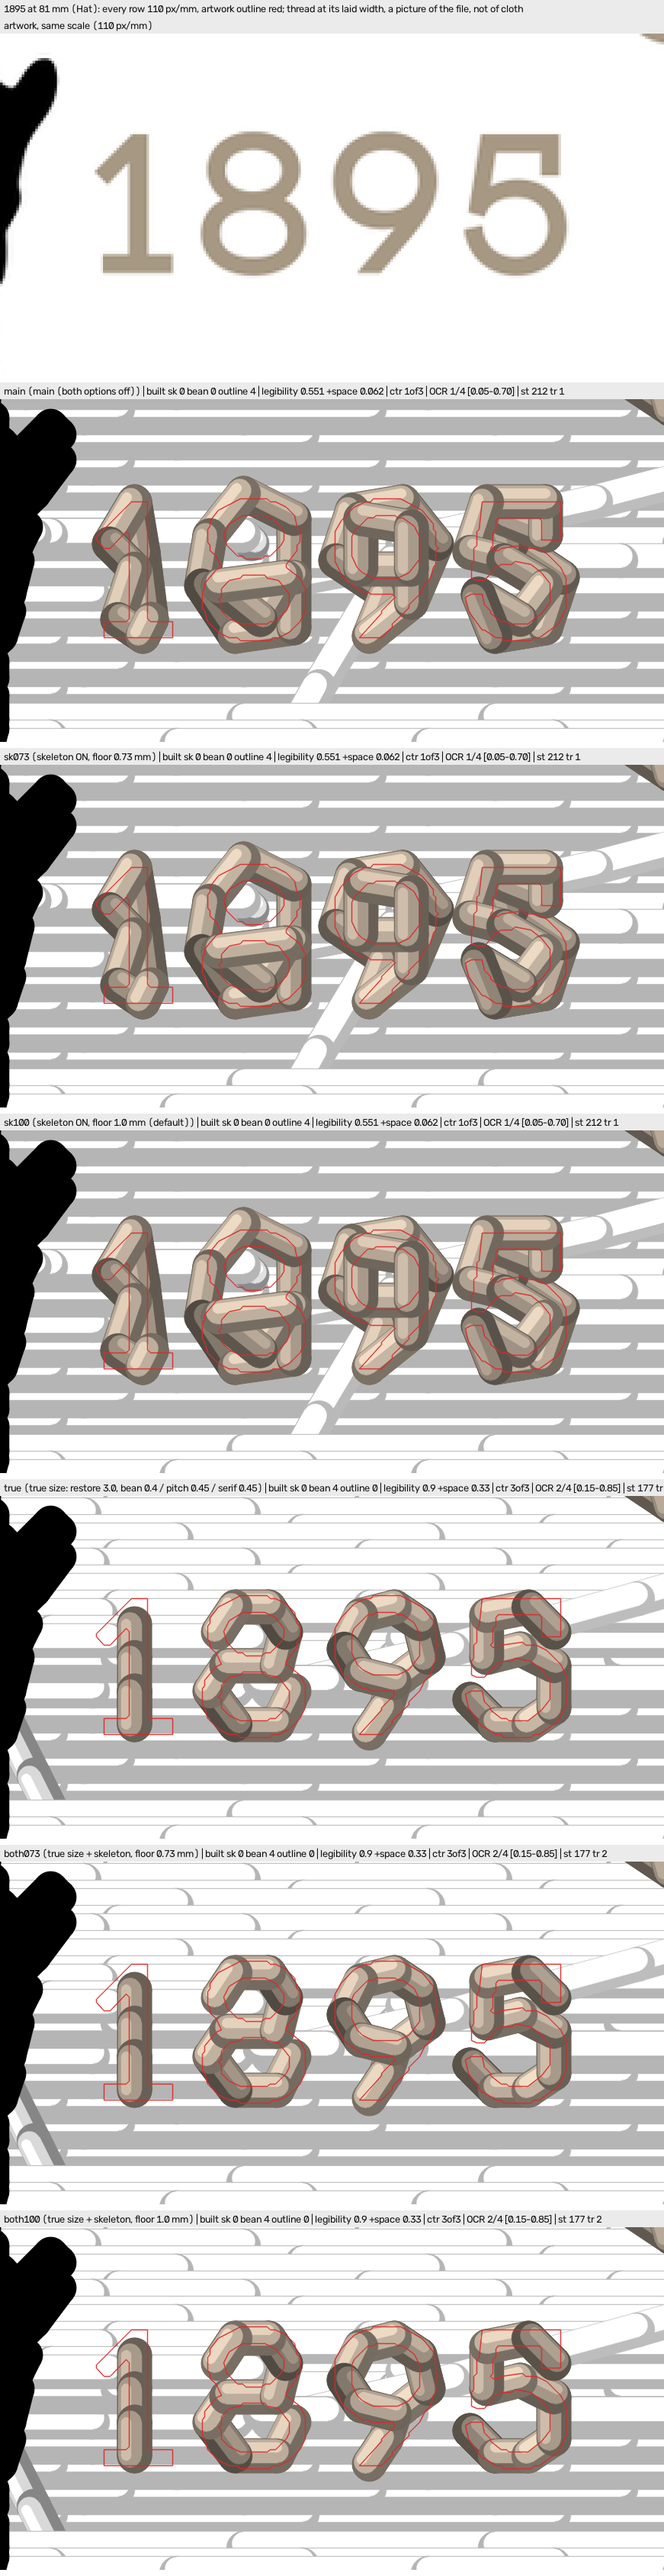
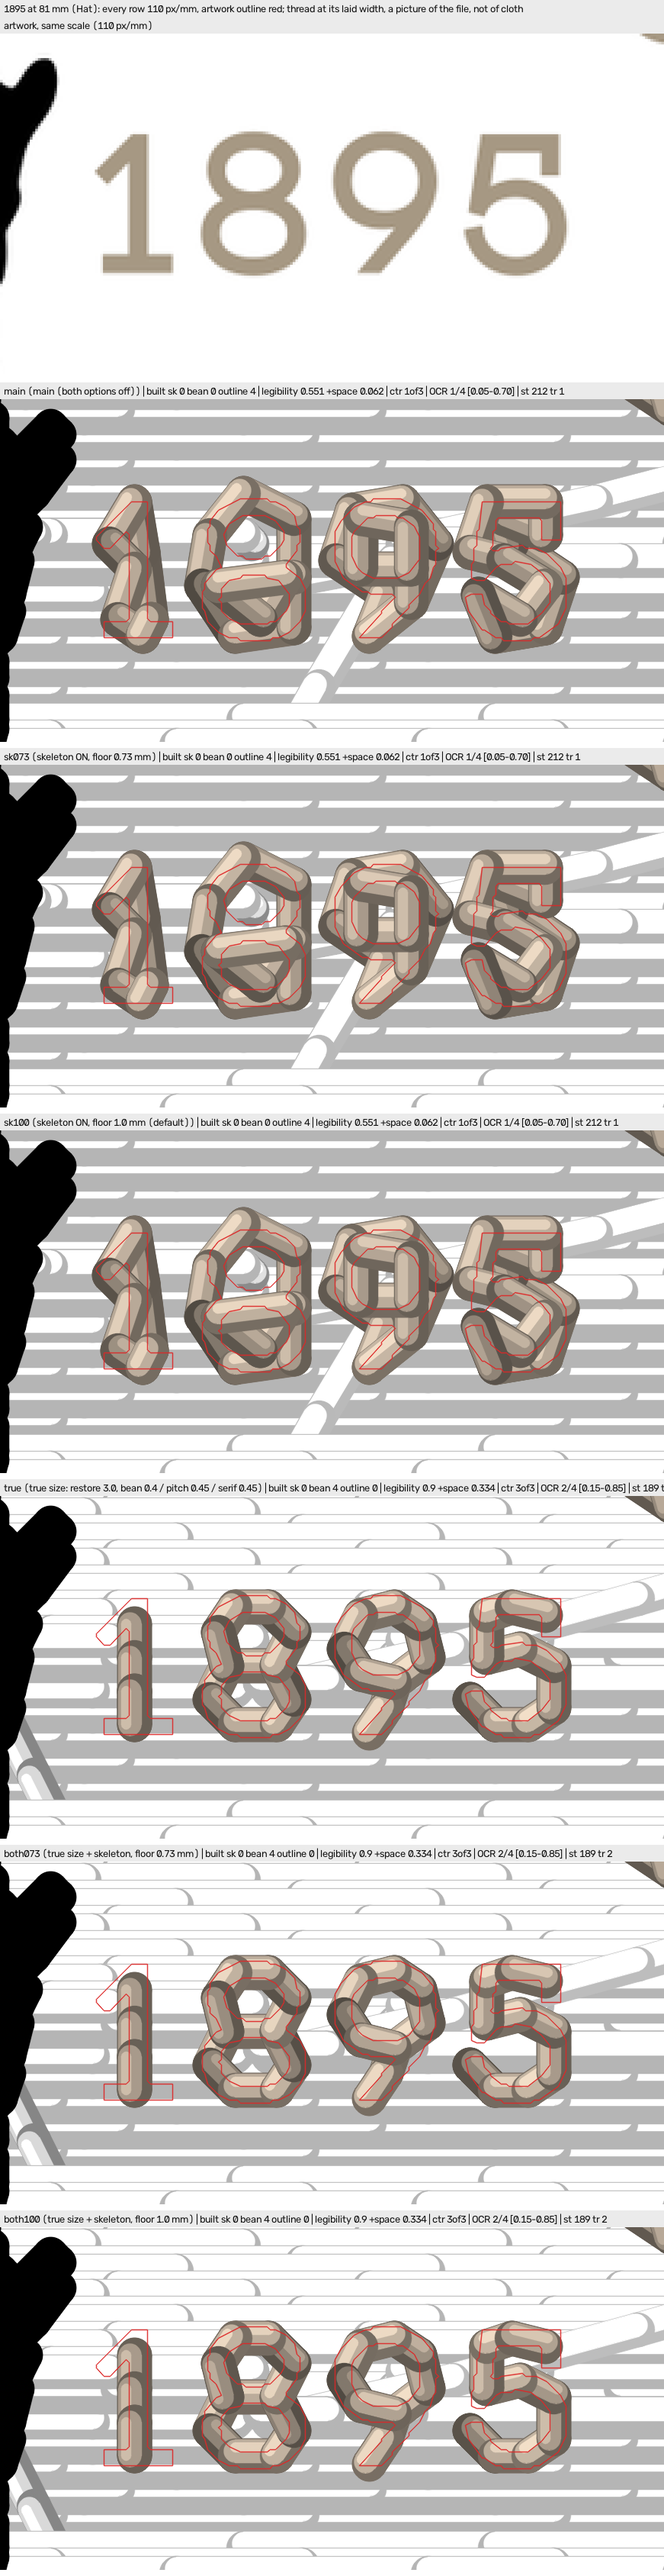
Small lettering head to head: true-size cells re-run on main cc7cab97 (serif guard), sheets regenerated

diff --git a/docs/renders/claude-small-lettering-head-to-head/table.md b/docs/renders/claude-small-lettering-head-to-head/table.md
@@ -5,9 +5,9 @@
 | main | 15,625 | 47 | 0, 0, 3 / 0, 0, 4 / 0, 0, 3 / 0, 0, 13 |
 | sk073 | 15,202 | 47 | 0, 0, 3 / 0, 0, 4 / 0, 0, 3 / 10, 0, 3 |
 | sk100 | 15,430 | 47 | 0, 0, 3 / 0, 0, 4 / 0, 0, 3 / 5, 0, 8 |
-| true | 15,278 | 41 | 0, 3, 0 / 0, 4, 0 / 0, 3, 0 / 0, 11, 2 |
-| both073 | 15,278 | 41 | 0, 3, 0 / 0, 4, 0 / 0, 3, 0 / 0, 11, 2 |
-| both100 | 15,278 | 41 | 0, 3, 0 / 0, 4, 0 / 0, 3, 0 / 0, 11, 2 |
+| true | 15,281 | 41 | 0, 3, 0 / 0, 4, 0 / 0, 3, 0 / 0, 11, 2 |
+| both073 | 15,281 | 41 | 0, 3, 0 / 0, 4, 0 / 0, 3, 0 / 0, 11, 2 |
+| both100 | 15,281 | 41 | 0, 3, 0 / 0, 4, 0 / 0, 3, 0 / 0, 11, 2 |
 
 **EST** (legibility / +space / counters open of source / OCR glyphs recovered, Wilson 95% / stitches and trims in the word's box)
 
@@ -16,9 +16,9 @@
 | main | 0.967 | 0.000 | 0 of 0 | 1/2 [0.10-0.91] | 166 | 1 |
 | sk073 | 0.967 | 0.000 | 0 of 0 | 1/2 [0.10-0.91] | 166 | 1 |
 | sk100 | 0.967 | 0.000 | 0 of 0 | 1/2 [0.10-0.91] | 166 | 1 |
-| true | 0.615 | 0.214 | 0 of 0 | 1/2 [0.10-0.91] | 133 | 0 |
-| both073 | 0.615 | 0.214 | 0 of 0 | 1/2 [0.10-0.91] | 133 | 0 |
-| both100 | 0.615 | 0.214 | 0 of 0 | 1/2 [0.10-0.91] | 133 | 0 |
+| true | 0.945 | 0.343 | 0 of 0 | 2/2 [0.34-1.00] | 124 | 0 |
+| both073 | 0.945 | 0.343 | 0 of 0 | 2/2 [0.34-1.00] | 124 | 0 |
+| both100 | 0.945 | 0.343 | 0 of 0 | 2/2 [0.34-1.00] | 124 | 0 |
 
 **1895** (legibility / +space / counters open of source / OCR glyphs recovered, Wilson 95% / stitches and trims in the word's box)
 
@@ -27,9 +27,9 @@
 | main | 0.551 | 0.062 | 1 of 3 | 1/4 [0.05-0.70] | 212 | 1 |
 | sk073 | 0.551 | 0.062 | 1 of 3 | 1/4 [0.05-0.70] | 212 | 1 |
 | sk100 | 0.551 | 0.062 | 1 of 3 | 1/4 [0.05-0.70] | 212 | 1 |
-| true | 0.900 | 0.330 | 3 of 3 | 2/4 [0.15-0.85] | 177 | 2 |
-| both073 | 0.900 | 0.330 | 3 of 3 | 2/4 [0.15-0.85] | 177 | 2 |
-| both100 | 0.900 | 0.330 | 3 of 3 | 2/4 [0.15-0.85] | 177 | 2 |
+| true | 0.900 | 0.334 | 3 of 3 | 2/4 [0.15-0.85] | 189 | 2 |
+| both073 | 0.900 | 0.334 | 3 of 3 | 2/4 [0.15-0.85] | 189 | 2 |
+| both100 | 0.900 | 0.334 | 3 of 3 | 2/4 [0.15-0.85] | 189 | 2 |
 
 **THE** (legibility / +space / counters open of source / OCR glyphs recovered, Wilson 95% / stitches and trims in the word's box)
 
@@ -60,9 +60,9 @@
 | main | 18,882 | 53 | 0, 0, 3 / 0, 0, 4 / 0, 0, 3 / 0, 0, 13 |
 | sk073 | 18,194 | 53 | 2, 0, 1 / 2, 0, 2 / 0, 0, 3 / 11, 0, 2 |
 | sk100 | 18,444 | 53 | 0, 0, 3 / 0, 0, 4 / 0, 0, 3 / 9, 0, 4 |
-| true | 18,617 | 51 | 0, 3, 0 / 0, 4, 0 / 0, 0, 3 / 0, 11, 2 |
-| both073 | 18,617 | 51 | 0, 3, 0 / 0, 4, 0 / 0, 0, 3 / 0, 11, 2 |
-| both100 | 18,617 | 51 | 0, 3, 0 / 0, 4, 0 / 0, 0, 3 / 0, 11, 2 |
+| true | 18,622 | 51 | 0, 3, 0 / 0, 4, 0 / 0, 0, 3 / 0, 11, 2 |
+| both073 | 18,622 | 51 | 0, 3, 0 / 0, 4, 0 / 0, 0, 3 / 0, 11, 2 |
+| both100 | 18,622 | 51 | 0, 3, 0 / 0, 4, 0 / 0, 0, 3 / 0, 11, 2 |
 
 **EST** (legibility / +space / counters open of source / OCR glyphs recovered, Wilson 95% / stitches and trims in the word's box)
 
@@ -84,9 +84,9 @@
 | main | 0.214 | 0.000 | 0 of 3 | 0/4 [0.00-0.49] | 260 | 1 |
 | sk073 | 0.715 | 0.250 | 3 of 3 | 2/4 [0.15-0.85] | 188 | 1 |
 | sk100 | 0.214 | 0.000 | 0 of 3 | 0/4 [0.00-0.49] | 260 | 1 |
-| true | 0.945 | 0.457 | 3 of 3 | 2/4 [0.15-0.85] | 220 | 1 |
-| both073 | 0.945 | 0.457 | 3 of 3 | 2/4 [0.15-0.85] | 220 | 1 |
-| both100 | 0.945 | 0.457 | 3 of 3 | 2/4 [0.15-0.85] | 220 | 1 |
+| true | 0.945 | 0.475 | 3 of 3 | 2/4 [0.15-0.85] | 225 | 1 |
+| both073 | 0.945 | 0.475 | 3 of 3 | 2/4 [0.15-0.85] | 225 | 1 |
+| both100 | 0.945 | 0.475 | 3 of 3 | 2/4 [0.15-0.85] | 225 | 1 |
 | pro_hat (reference) | 0.333 | 0.078 | 0 of 3 | 1/4 [0.05-0.70] | - | - |
 | pro_patch (reference) | 0.411 | 0.000 | 1 of 3 | 1/4 [0.05-0.70] | - | - |
 

diff --git a/docs/renders/claude-small-lettering-head-to-head/pick.md b/docs/renders/claude-small-lettering-head-to-head/pick.md
@@ -3,12 +3,12 @@
 | 81 mm | main | 15,625 | 47 | 0.97 / 0.55 / 0.97 / 0.61 | 14/20 [0.48-0.85] |
 | 81 mm | sk073 | 15,202 | 47 | 0.97 / 0.55 / 0.97 / 0.92 | 13/20 [0.43-0.82] |
 | 81 mm | sk100 | 15,430 | 47 | 0.97 / 0.55 / 0.97 / 0.69 | 13/20 [0.43-0.82] |
-| 81 mm | true | 15,278 | 41 | 0.61 / 0.90 / 1.00 / 0.99 | 17/20 [0.64-0.95] |
-| 81 mm | both073 | 15,278 | 41 | 0.61 / 0.90 / 1.00 / 0.99 | 17/20 [0.64-0.95] |
-| 81 mm | both100 | 15,278 | 41 | 0.61 / 0.90 / 1.00 / 0.99 | 17/20 [0.64-0.95] |
+| 81 mm | true | 15,281 | 41 | 0.94 / 0.90 / 1.00 / 0.99 | 18/20 [0.70-0.97] |
+| 81 mm | both073 | 15,281 | 41 | 0.94 / 0.90 / 1.00 / 0.99 | 18/20 [0.70-0.97] |
+| 81 mm | both100 | 15,281 | 41 | 0.94 / 0.90 / 1.00 / 0.99 | 18/20 [0.70-0.97] |
 | 92.5 mm | main | 18,882 | 53 | 0.99 / 0.21 / 0.65 / 0.69 | 13/21 [0.41-0.79] |
 | 92.5 mm | sk073 | 18,194 | 53 | 0.97 / 0.71 / 0.65 / 0.99 | 13/21 [0.41-0.79] |
 | 92.5 mm | sk100 | 18,444 | 53 | 0.99 / 0.21 / 0.65 / 0.84 | 11/21 [0.32-0.72] |
-| 92.5 mm | true | 18,617 | 51 | 0.98 / 0.94 / 0.65 / 1.00 | 16/21 [0.55-0.89] |
-| 92.5 mm | both073 | 18,617 | 51 | 0.98 / 0.94 / 0.65 / 1.00 | 16/21 [0.55-0.89] |
-| 92.5 mm | both100 | 18,617 | 51 | 0.98 / 0.94 / 0.65 / 1.00 | 16/21 [0.55-0.89] |
+| 92.5 mm | true | 18,622 | 51 | 0.98 / 0.94 / 0.65 / 1.00 | 16/21 [0.55-0.89] |
+| 92.5 mm | both073 | 18,622 | 51 | 0.98 / 0.94 / 0.65 / 1.00 | 16/21 [0.55-0.89] |
+| 92.5 mm | both100 | 18,622 | 51 | 0.98 / 0.94 / 0.65 / 1.00 | 16/21 [0.55-0.89] |
